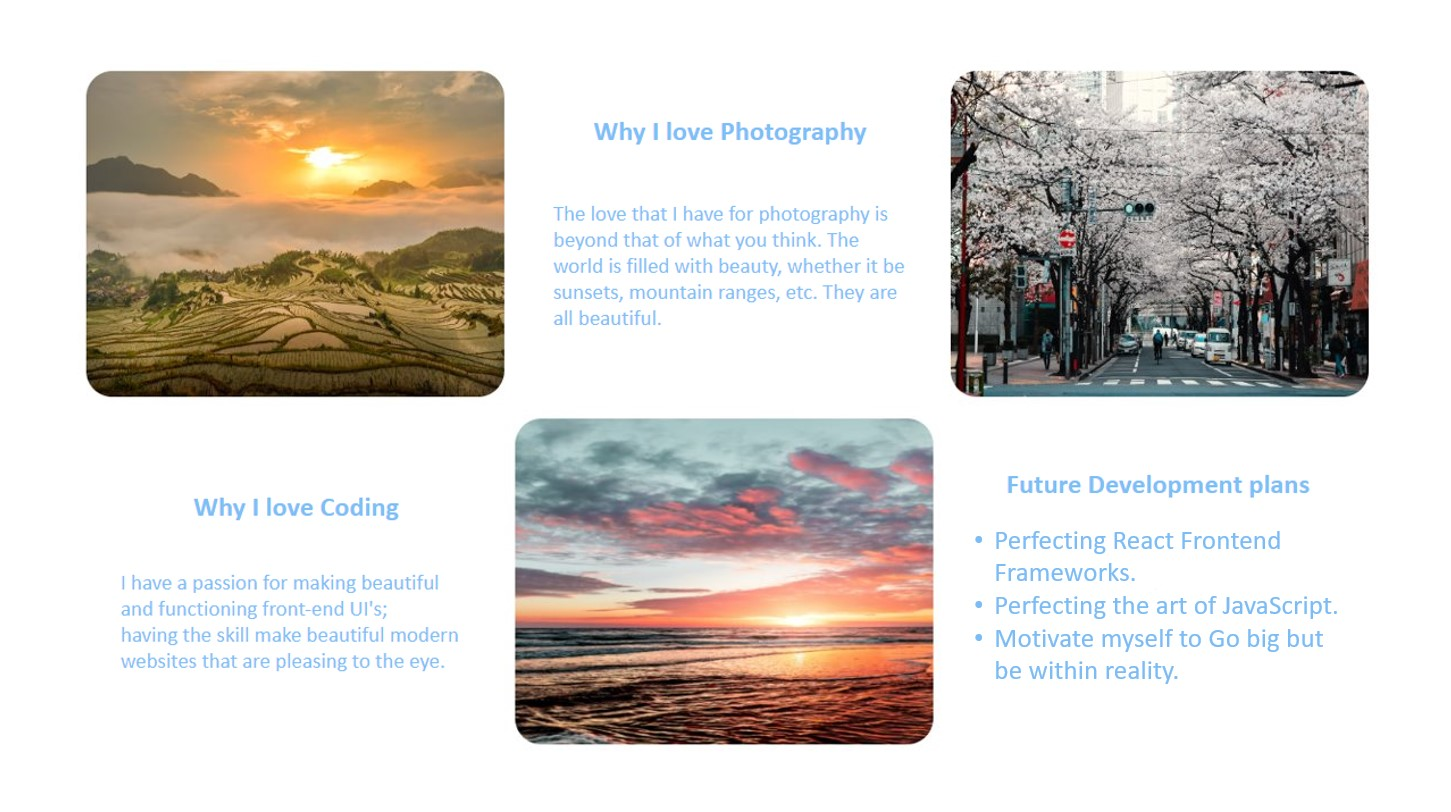
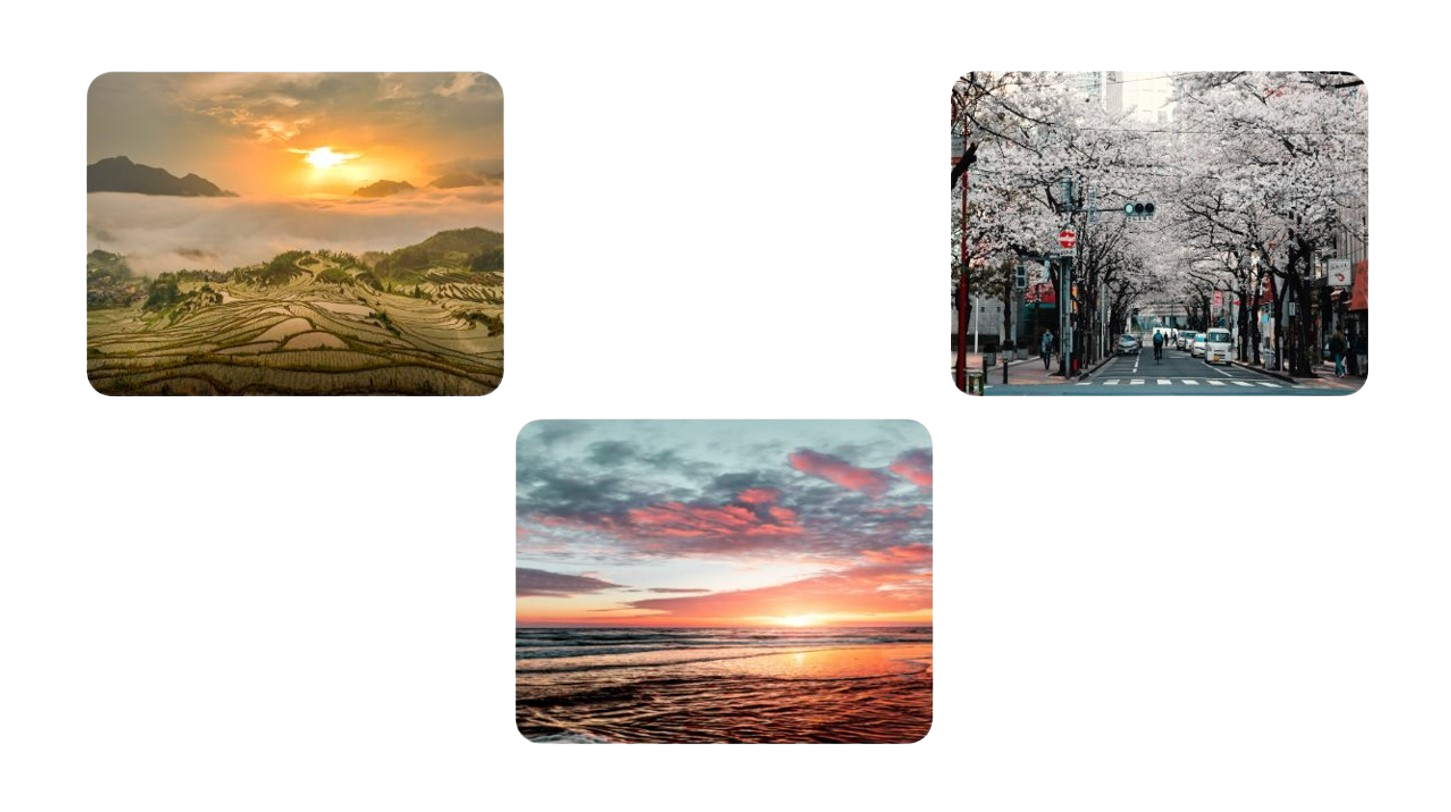
removed the background for my photography home.js, I willl rewrite the words back on later. meanwhile i got the dark and light theme to work for the home.js

diff --git a/src/components/Home.js b/src/components/Home.js
@@ -1,6 +1,6 @@
 // Home.js
 
-import React from "react";
+import React, { useState } from "react";
 import "../styles/App.css";
 import applemojiImage from "../components/images/applemoji.jpg";
 import aboutMeImage from "../components/images/Aboutme.jpg";
@@ -19,9 +19,24 @@ function Home() {
   script.onload = () => {
     window.AOS.init();
   };
+  const [isDarkMode, setIsDarkMode] = useState(false);
+
+  const toggleTheme = () => {
+    setIsDarkMode(!isDarkMode);
+  };
   return (
-    <div className="flex flex-col min-h-screen">
+    <div
+      className={`flex flex-col min-h-screen ${isDarkMode ? "dark" : "light"}`}
+    >
       <div className="container mx-auto p-4 flex-grow pt-32">
+        {/* Toggle Button */}
+        <button
+          onClick={toggleTheme}
+          className="fixed top-4 right-4 z-10 p-2 rounded-full bg-blue-300 text-white dark:bg-gray-800 mt-16"
+        >
+          {isDarkMode ? "Light" : "Dark"} Mode
+        </button>
+
         <div
           className="container text-center text-blue-300 text-6xl font-bold pb-32 "
           data-aos="fade-down"
@@ -85,7 +100,7 @@ function Home() {
           </div>
         </div>
         <div
-          className="bg-white flex justify-center items-center pt-36 me "
+          className=" flex justify-center items-center pt-36 me "
           data-aos="fade-up"
           data-aos-duration="3000"
         >
@@ -99,7 +114,7 @@ function Home() {
                 data-aos-duration="3000"
               />
             </div>
-            <div className="bg-white pt-4 pb-32 rounded-lg justify-center items-center about-me ">
+            <div className=" pt-4 pb-32 rounded-lg justify-center items-center about-me ">
               <h1
                 className="text-4xl font-bold text-blue-300 flex justify-center text-center items-center "
                 data-aos="fade-down"

diff --git a/src/App.js b/src/App.js
@@ -1,19 +1,25 @@
-import React from "react";
+import React, { useState } from "react";
 import "./styles/App.css";
-import { BrowserRouter as Router, Route, Routes } from "react-router-dom"; // Import BrowserRouter, Route, and Routes
+import { BrowserRouter as Router, Route, Routes } from "react-router-dom";
 import Header from "./components/Header";
 import Footer from "./components/Footer";
 import Home from "./components/Home";
-import Work from "./components/Work"; // Import the Work component
-import Contact from "./components/Contact"; // Import the Contact component
+import Work from "./components/Work";
+import Contact from "./components/Contact";
 
 function App() {
+  const [isDarkMode, setIsDarkMode] = useState(false);
+
+  const toggleTheme = () => {
+    setIsDarkMode(!isDarkMode);
+  };
+
   return (
-    <div className="bg-white min-h-screen">
+    <div className={`min-h-screen ${isDarkMode ? "dark" : "light"}`}>
       <Router>
-        <Header />
+        <Header isDarkMode={isDarkMode} toggleTheme={toggleTheme} />
         <Routes>
-          <Route path="/" element={<Home />} />
+          <Route path="/" element={<Home isDarkMode={isDarkMode} />} />
           <Route path="/work" element={<Work />} />
           <Route path="/contact" element={<Contact />} />
         </Routes>

diff --git a/src/styles/App.css b/src/styles/App.css
@@ -1,7 +1,15 @@
 @import "tailwindcss/base";
 @import "tailwindcss/components";
 @import "tailwindcss/utilities";
+.light {
+  background-color: #fff; /* Light background color */
+  color: #333; /* Light text color */
+}
 
+.dark {
+  background-color: #333; /* Dark background color */
+  color: #fff; /* Dark text color */
+}
 /* style.css */
 body {
   overflow-x: hidden;
@@ -102,7 +110,7 @@ Default styling for larger screens .questions1 {
 /* Global styles */
 body {
   font-family: Arial, sans-serif;
-  background-color: #f0f0f0;
+
   margin: 0;
   display: flex;
   flex-direction: column;
@@ -131,7 +139,7 @@ body {
   position: absolute;
   top: 60px;
   right: 0;
-  background: white;
+
   width: 100%;
   padding: 20px;
   box-shadow: 0px 5px 15px rgba(0, 0, 0, 0.2);
